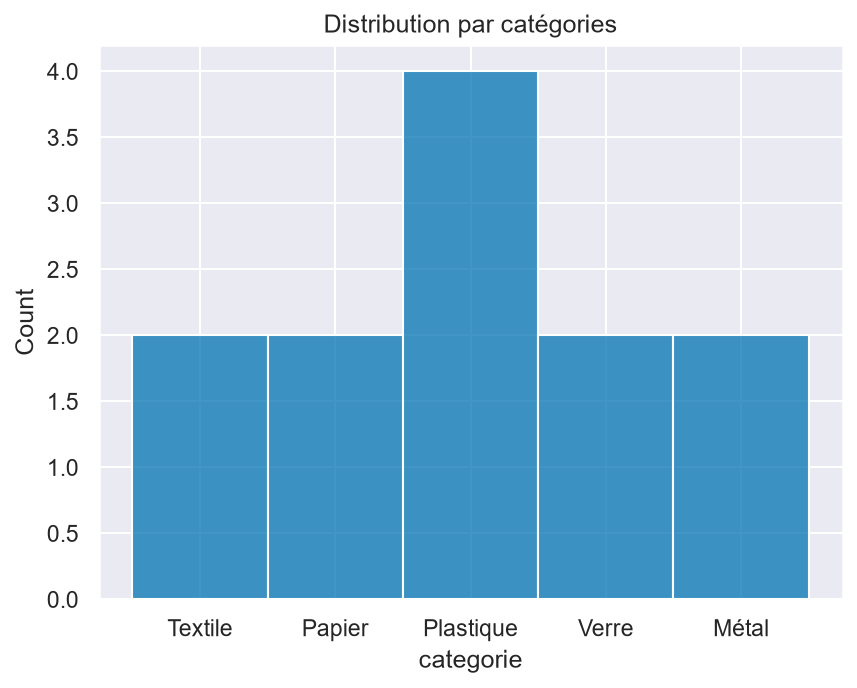
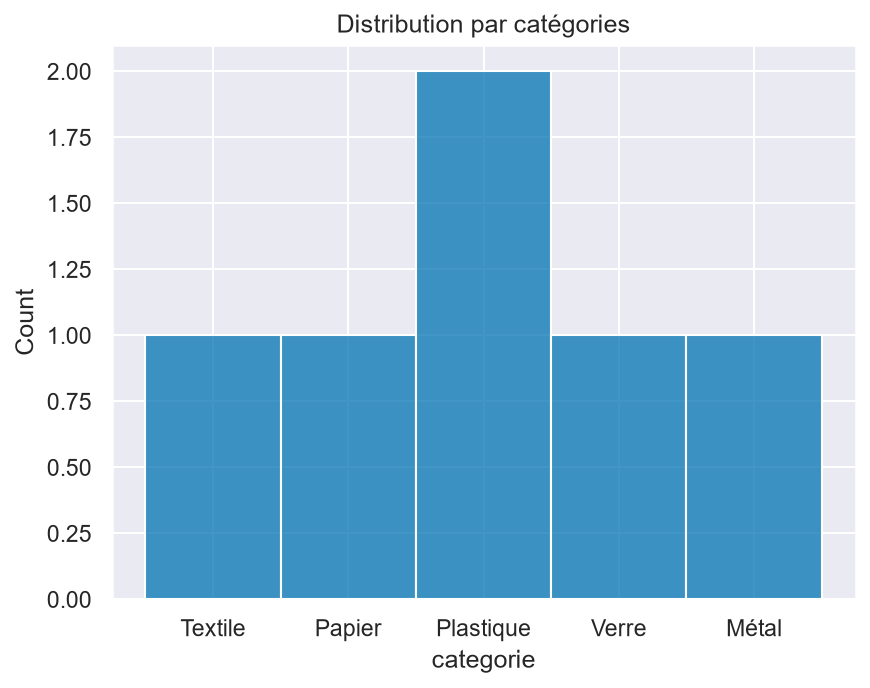
fin J3

diff --git a/awa.py b/awa.py
@@ -1,6 +1,6 @@
 # Sponsor : responsable d'exploitation · 
-# #Objectif : augmenter le taux de valorisation · 
-# #Décision : où cibler la formation au tri
+# Objectif : augmenter le taux de valorisation · 
+# Décision : où cibler la formation au tri
 
 #quoi chercher: mediane de chaque colonne apr site
 #
@@ -71,7 +71,7 @@ print(f"\nTaux global de valorisation : {global_sum:.1f} %")
 
 # constat 1: la part du metal dans le taux de collecte est tres faible 8.5%
 # constat 2: le taux de valorisation du metal est le plus haut 86.5%
-# constat 3 le textile est tres peu valorisé 38.72%
+# constat 3 le textile est tres bien valorisé par rapport a la moyenne mondiale valorisé 38.72%
 
 print("############### pandas exercice Jour 3 exo 2 ###################")
 
@@ -143,11 +143,12 @@ print("\n=== Les 5 paires les plus corrélées ===")
 print(paires.sort_values(ascending=False).head(5))
 
 
-# dechetterie_kg  revendu_kg        0.930377 -> aucun rapport
-# collecte_kg     tx_valorise       0.893647 -> rapport evident , valorise depend de collecte
-# recycle_kg      valorise_kg       0.890171 -> rapport avident ,  recycle est dans valorise
-# attente_kg      dechetterie_kg    0.872367 -> rapport as evident, en attente de quoi? de dechetterie?
-#                 collecte_kg       0.807582 -> si decheterie: rapport evident, + de collecte pplus de dechet 
+# === Les 5 paires les plus corrélées ===
+# attente_kg      dechetterie_kg    0.936034 -> CORRELATION POSSIBLE:  l'attende se transforme en dechet
+# dechetterie_kg  revendu_kg        0.931491 -> aucune correlation
+# recycle_kg      valorise_kg       0.900707 -> correlation evidente
+# collecte_kg     tx_valorise       0.887331 -> correlation evidente
+# attente_kg      collecte_kg       0.873221 -> correlation evidente
 #les correlations sont logique et mecanique
 
 
@@ -194,16 +195,16 @@ else:
         print("Conséquence : l'écart vu sur le graphique peut n'être que du bruit ; chercher ailleurs.")
 
     
-# Conclusion : (j'ai doubler le nombre de ligne du csv pour avoir un resultat)
-# on peut  affirmer que On peut affirmer que les taux de valorisation diffèrent selon la catégorie.
-# Conséquence : cibler la formation au tri sur les catégories les plus faibles.   
+
+# on ne peut rien afficher les chiffres ne sont pas suffisant pour les analyser
 
 print("############### pandas exercice Jour 3 exo 5 ###################")
+print(df)
 
 df["z"] = df.groupby("categorie")["tx_valorise"].transform(
     lambda s: (s - s.mean()) / s.std()
 )
-
+print(df["z"])
 print(df[df["z"].abs() > 2])                       # les anomalies
 print(df.loc[df["z"].dropna().abs().nlargest(5).index])     # les 5 plus marquées, même si la liste du dessus est vide
 
